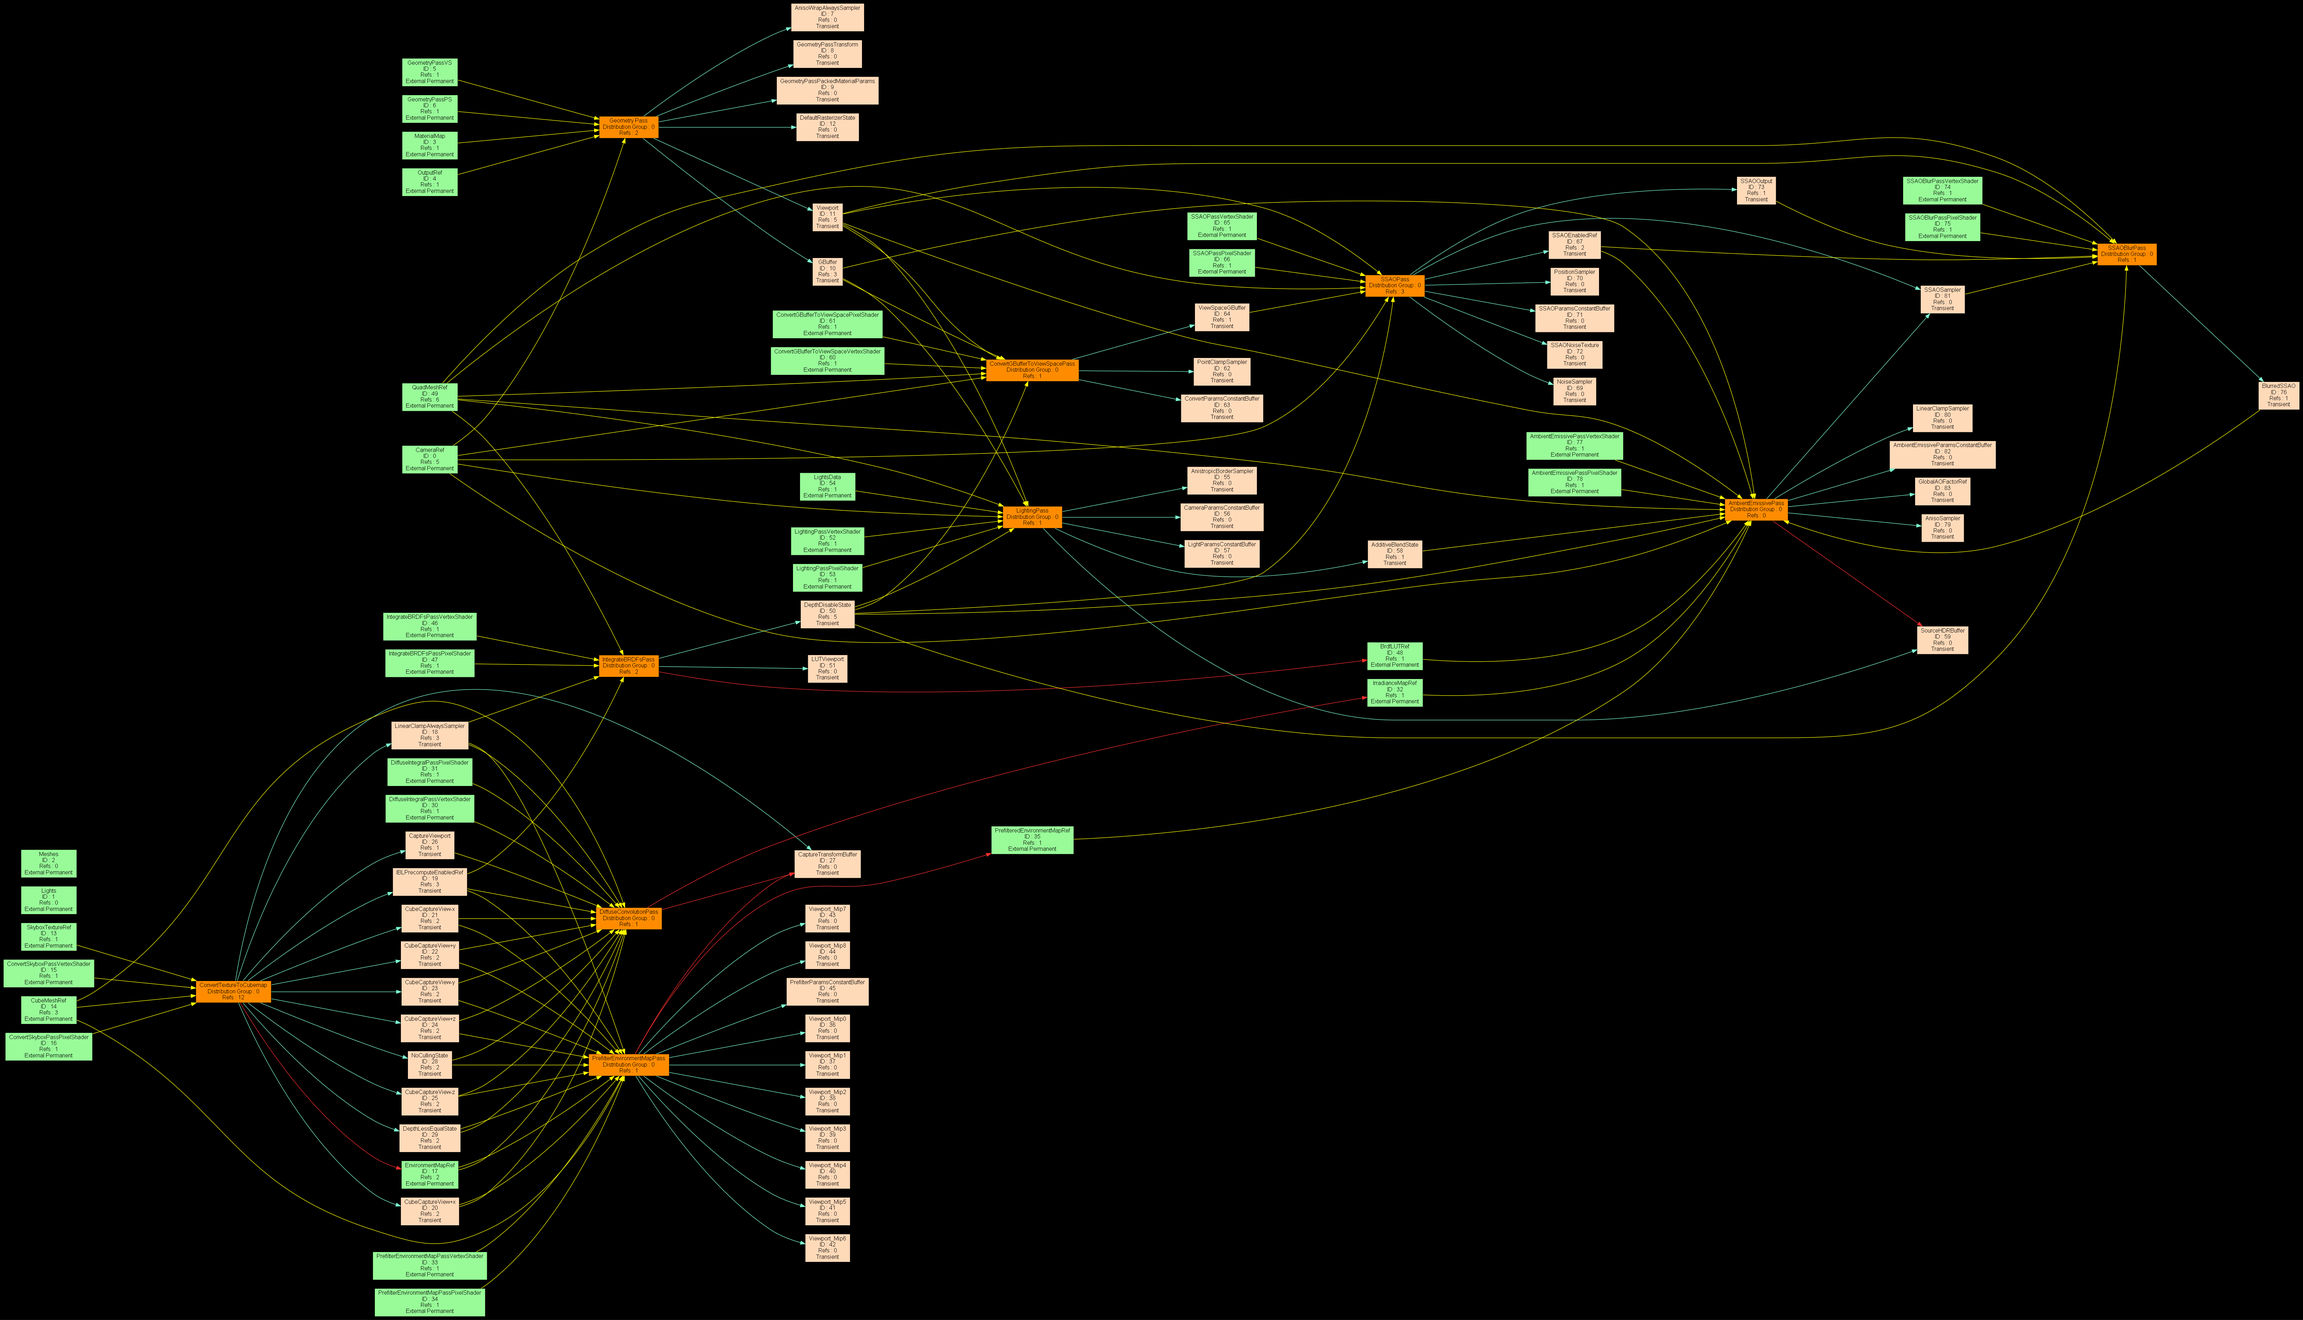
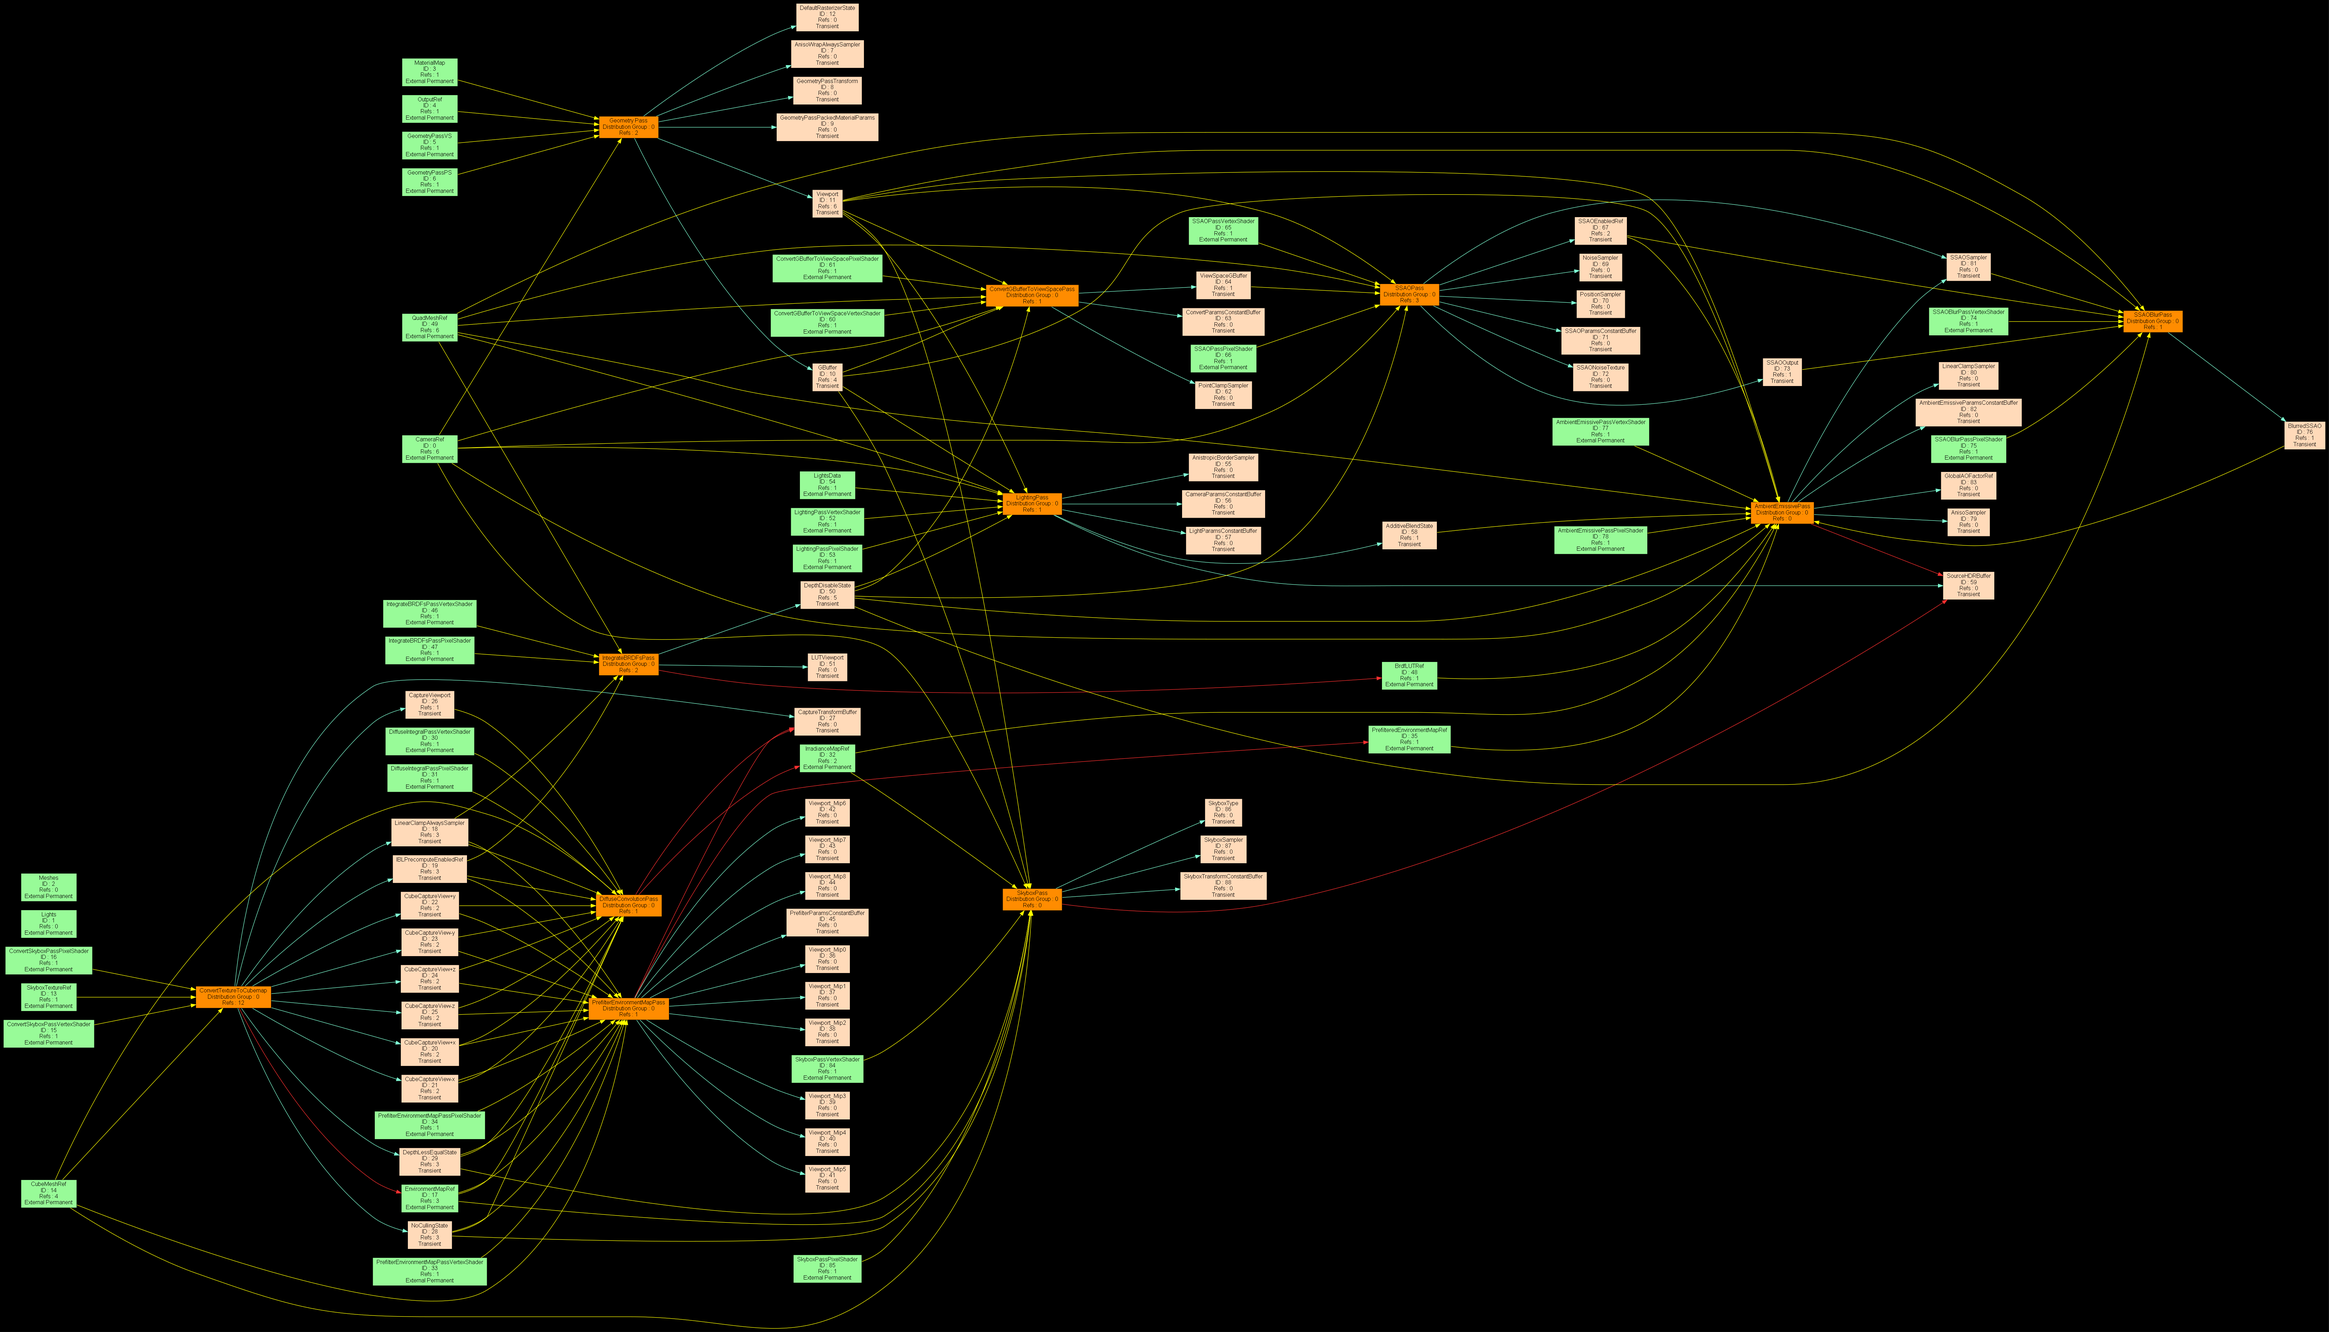
Skybox 렌더링 패스를 frame graph로 포팅하였습니다

diff --git a/Sources/Runtime/Rendering/RendererPBR.cpp b/Sources/Runtime/Rendering/RendererPBR.cpp
@@ -49,11 +49,6 @@ namespace Mile
       float SpecularFactor;
    };
 
-   DEFINE_CONSTANT_BUFFER(CubemapTransformBuffer)
-   {
-      Matrix ViewProj;
-   };
-
    DEFINE_CONSTANT_BUFFER(PrefilterParamsBuffer)
    {
       float Roughness;
@@ -72,9 +67,9 @@ namespace Mile
       UINT32 LightType;
    };
 
-   DEFINE_CONSTANT_BUFFER(ConvertParams)
+   DEFINE_CONSTANT_BUFFER(OneMatrixConstantBuffer)
    {
-      Matrix View;
+      Matrix Mat;
    };
 
    DEFINE_CONSTANT_BUFFER(SSAOParamsConstantBuffer)
@@ -128,12 +123,17 @@ namespace Mile
       m_bSSAOEnabled(true),
       m_ambientEmissivePassVS(nullptr),
       m_ambientEmissivePassPS(nullptr),
-      m_globalAOFactor(1.0f)
+      m_globalAOFactor(1.0f),
+      m_skyboxPassVS(nullptr),
+      m_skyboxPassPS(nullptr),
+      m_renderSkyboxType(ESkyboxType::EnvironmentMap)
    {
    }
 
    RendererPBR::~RendererPBR()
    {
+      SafeDelete(m_skyboxPassPS);
+      SafeDelete(m_skyboxPassVS);
       SafeDelete(m_ambientEmissivePassPS);
       SafeDelete(m_ambientEmissivePassVS);
       SafeDelete(m_ssaoBlurPassPS);
@@ -364,6 +364,24 @@ namespace Mile
       if (m_ambientEmissivePassPS == nullptr)
       {
          ME_LOG(MileRendererPBR, Fatal, TEXT("Failed to load ambient emissive pass pixel shader!"));
+         return false;
+      }
+
+      /** Skybox Pass Shaders  */
+      ShaderDescriptor skyboxPassDesc;
+      skyboxPassDesc.Renderer = this;
+      skyboxPassDesc.FilePath = TEXT("Contents/Shaders/SkyboxPass.hlsl");
+      m_skyboxPassVS = Elaina::Realize<ShaderDescriptor, VertexShaderDX11>(skyboxPassDesc);
+      if (m_ambientEmissivePassVS == nullptr)
+      {
+         ME_LOG(MileRendererPBR, Fatal, TEXT("Failed to load skybox pass vertex shader!"));
+         return false;
+      }
+
+      m_skyboxPassPS = Elaina::Realize<ShaderDescriptor, PixelShaderDX11>(skyboxPassDesc);
+      if (m_ambientEmissivePassPS == nullptr)
+      {
+         ME_LOG(MileRendererPBR, Fatal, TEXT("Failed to load skybox pass pixel shader!"));
          return false;
       }
 
@@ -656,7 +674,7 @@ namespace Mile
 
             ConstantBufferDescriptor captureTransformDesc;
             captureTransformDesc.Renderer = this;
-            captureTransformDesc.Size = sizeof(CubemapTransformBuffer);
+            captureTransformDesc.Size = sizeof(OneMatrixConstantBuffer);
             data.CaptureTransformBuffer = builder.Create<ConstantBufferResource>("CaptureTransformBuffer", captureTransformDesc);
 
             RasterizerStateDescriptor noCullingDesc;
@@ -718,8 +736,8 @@ namespace Mile
                for (unsigned int faceIdx = 0; faceIdx < CUBE_FACES; ++faceIdx)
                {
                   outputEnvMap->BindAsRenderTarget(immediateContext, faceIdx);
-                  auto mappedTrasnformBuffer = transformBuffer->Map<CubemapTransformBuffer>(immediateContext);
-                  (*mappedTrasnformBuffer) = CubemapTransformBuffer{ *captureViews[faceIdx]->GetActual() };
+                  auto mappedTrasnformBuffer = transformBuffer->Map<OneMatrixConstantBuffer>(immediateContext);
+                  (*mappedTrasnformBuffer) = OneMatrixConstantBuffer{ *captureViews[faceIdx]->GetActual() };
                   transformBuffer->UnMap(immediateContext);
                   immediateContext.DrawIndexed(cubeMesh->GetIndexCount(), 0, 0);
                   outputEnvMap->UnbindAsRenderTarget(immediateContext);
@@ -840,8 +858,8 @@ namespace Mile
                for (unsigned int faceIdx = 0; faceIdx < CUBE_FACES; ++faceIdx)
                {
                   outputIrradianceMap->BindAsRenderTarget(immediateContext, faceIdx);
-                  auto mappedTrasnformBuffer = transformBuffer->Map<CubemapTransformBuffer>(immediateContext);
-                  (*mappedTrasnformBuffer) = CubemapTransformBuffer{ *data.CaptureViews[faceIdx]->GetActual() };
+                  auto mappedTrasnformBuffer = transformBuffer->Map<OneMatrixConstantBuffer>(immediateContext);
+                  (*mappedTrasnformBuffer) = OneMatrixConstantBuffer{ *data.CaptureViews[faceIdx]->GetActual() };
                   transformBuffer->UnMap(immediateContext);
                   immediateContext.DrawIndexed(cubeMesh->GetIndexCount(), 0, 0);
                   outputIrradianceMap->UnbindAsRenderTarget(immediateContext);
@@ -985,8 +1003,8 @@ namespace Mile
 
                   for (unsigned int faceIdx = 0; faceIdx < CUBE_FACES; ++faceIdx)
                   {
-                     auto mappedTrasnformBuffer = transformBuffer->Map<CubemapTransformBuffer>(immediateContext);
-                     (*mappedTrasnformBuffer) = CubemapTransformBuffer{ *data.CaptureViews[faceIdx]->GetActual() };
+                     auto mappedTrasnformBuffer = transformBuffer->Map<OneMatrixConstantBuffer>(immediateContext);
+                     (*mappedTrasnformBuffer) = OneMatrixConstantBuffer{ *data.CaptureViews[faceIdx]->GetActual() };
                      transformBuffer->UnMap(immediateContext);
 
                      outputPrefilteredEnvMap->BindAsRenderTarget(immediateContext, faceIdx, mipLevel);
@@ -1324,7 +1342,7 @@ namespace Mile
 
             ConstantBufferDescriptor paramsDesc;
             paramsDesc.Renderer = this;
-            paramsDesc.Size = sizeof(ConvertParams);
+            paramsDesc.Size = sizeof(OneMatrixConstantBuffer);
             data.ConvertParamsBuffer = builder.Create<ConstantBufferResource>(
                "ConvertParamsConstantBuffer",
                paramsDesc);
@@ -1376,8 +1394,8 @@ namespace Mile
                camTransform->GetForward(TransformSpace::World),
                camTransform->GetUp(TransformSpace::World));
 
-            auto mappedConvertParams = convertParamsBuffer->Map<ConvertParams>(immediateContext);
-            (*mappedConvertParams) = ConvertParams{ viewMatrix };
+            auto mappedConvertParams = convertParamsBuffer->Map<OneMatrixConstantBuffer>(immediateContext);
+            (*mappedConvertParams) = OneMatrixConstantBuffer{ viewMatrix };
             convertParamsBuffer->UnMap(immediateContext);
             immediateContext.DrawIndexed(quadMesh->GetIndexCount(), 0, 0);
 
@@ -1770,7 +1788,7 @@ namespace Mile
                blurredSSAO->BindAsShaderResource(context, 8, EShaderType::PixelShader);
             }
             quadMesh->Bind(context, 0);
-            output->BindAsRenderTarget(context);
+            output->BindAsRenderTarget(context, false, false);
 
             /** Update Constant Buffer */
             auto camTransform = camera->GetTransform();
@@ -1799,6 +1817,144 @@ namespace Mile
          });
 
       ambientEmissivePass->SetCullImmune(true);
+      auto ambientEmissivePassData = ambientEmissivePass->GetData();
+
+      struct SkyboxPassData : public RenderPassDataBase
+      {
+         ViewportResource* Viewport = nullptr;
+         CameraRefResource* CamRef = nullptr;
+         GBufferResource* GBuffer = nullptr;
+         VoidRefRefResource* SkyboxType = nullptr;
+         DynamicCubemapRefResource* EnvironmentMapRef = nullptr;
+         DynamicCubemapRefResource* IrradianceMapRef = nullptr;
+         SamplerResource* Sampler = nullptr;
+         MeshRefResource* CubeMeshRef = nullptr;
+         DepthStencilStateResource* DepthLessEqualState = nullptr;
+         RasterizerStateResource* NoCullingState = nullptr;
+         ConstantBufferResource* TransformConstantBuffer = nullptr;
+         RenderTargetResource* Output = nullptr;
+      };
+
+      auto skyboxPassVSRes =
+         m_frameGraph.AddExternalPermanentResource("SkyboxPassVertexShader", ShaderDescriptor(), m_skyboxPassVS);
+      auto skyboxPassPSRes =
+         m_frameGraph.AddExternalPermanentResource("SkyboxPassPixelShader", ShaderDescriptor(), m_skyboxPassPS);
+
+      auto skyboxPass = m_frameGraph.AddCallbackPass<SkyboxPassData>(
+         "SkyboxPass",
+         [&](Elaina::RenderPassBuilder& builder, SkyboxPassData& data)
+         {
+            data.Renderer = this;
+            data.VertexShader = builder.Read(skyboxPassVSRes);
+            data.PixelShader = builder.Read(skyboxPassPSRes);
+
+            data.Viewport = builder.Read(ambientEmissivePassData.Viewport);
+
+            data.CamRef = builder.Read(ambientEmissivePassData.CamRef);
+            data.GBuffer = builder.Read(ambientEmissivePassData.GBuffer);
+
+            VoidRefDescriptor skyboxRefDesc;
+            skyboxRefDesc.Reference = (void*)&m_renderSkyboxType;
+            data.SkyboxType = builder.Create<VoidRefRefResource>("SkyboxType", skyboxRefDesc);
+
+            SamplerDescriptor samplerDesc;
+            samplerDesc.Renderer = this;
+            samplerDesc.Filter = D3D11_FILTER_MIN_MAG_MIP_LINEAR;
+            samplerDesc.AddressModeU = samplerDesc.AddressModeV = samplerDesc.AddressModeW = D3D11_TEXTURE_ADDRESS_WRAP;
+            samplerDesc.CompFunc = D3D11_COMPARISON_ALWAYS;
+            data.Sampler = builder.Create<SamplerResource>("SkyboxSampler", samplerDesc);
+
+            data.DepthLessEqualState = builder.Read(convertSkyboxToCubemapPassData.DepthLessEqualState);
+            data.NoCullingState = builder.Read(convertSkyboxToCubemapPassData.NoCullingState);
+
+            ConstantBufferDescriptor transformBufferDesc;
+            transformBufferDesc.Renderer = this;
+            transformBufferDesc.Size = sizeof(OneMatrixConstantBuffer);
+            data.TransformConstantBuffer = builder.Create<ConstantBufferResource>("SkyboxTransformConstantBuffer", transformBufferDesc);
+
+            data.EnvironmentMapRef = builder.Read(convertSkyboxToCubemapPassData.OutputEnvMapRef);
+            data.IrradianceMapRef = builder.Read(diffuseIntegralPassData.OutputIrradianceMapRef);
+
+            data.CubeMeshRef = builder.Read(convertSkyboxToCubemapPassData.CubeMeshRef);
+
+            data.Output = builder.Write(ambientEmissivePassData.Output);
+         },
+         [](const SkyboxPassData& data)
+         {
+            ID3D11DeviceContext& context = data.Renderer->GetImmediateContext();
+            context.ClearState();
+            context.IASetPrimitiveTopology(D3D11_PRIMITIVE_TOPOLOGY_TRIANGLELIST);
+
+            auto vertexShader = data.VertexShader->GetActual();
+            auto pixelShader = data.PixelShader->GetActual();
+            auto sampler = data.Sampler->GetActual();
+            auto viewport = data.Viewport->GetActual();
+            auto depthLessEqualState = data.DepthLessEqualState->GetActual();
+            auto noCullingState = data.NoCullingState->GetActual();
+            auto transformBuffer = data.TransformConstantBuffer->GetActual();
+            auto envMap = *data.EnvironmentMapRef->GetActual();
+            auto irrdianceMap = *data.IrradianceMapRef->GetActual();
+            auto cubeMesh = *data.CubeMeshRef->GetActual();
+            auto output = data.Output->GetActual();
+            auto gBuffer = data.GBuffer->GetActual();
+            auto skyboxType = *reinterpret_cast<ESkyboxType*>(*data.SkyboxType->GetActual());
+
+            /** Binds */
+            vertexShader->Bind(context);
+            pixelShader->Bind(context);
+            sampler->Bind(context, 0);
+            depthLessEqualState->Bind(context);
+            noCullingState->Bind(context);
+            transformBuffer->Bind(context, 0, EShaderType::VertexShader);
+            cubeMesh->Bind(context, 0);
+            viewport->Bind(context);
+            auto gBufferDepthStencil = gBuffer->GetDepthStencilBufferDX11();
+            output->SetDepthStencilBuffer(gBufferDepthStencil);
+            output->BindAsRenderTarget(context, false, false);
+
+            switch (skyboxType)
+            {
+            case ESkyboxType::IrradianceMap:
+               irrdianceMap->Bind(context, 0, EShaderType::PixelShader);
+               break;
+            case ESkyboxType::EnvironmentMap:
+            default:
+               envMap->Bind(context, 0, EShaderType::PixelShader);
+            }
+
+            /** Upload Constant Buffer datas */
+            auto camera = *data.CamRef->GetActual();
+            auto camTransform = camera->GetTransform();
+            Matrix viewMat = Matrix::CreateView(Vector3(0.0f, 0.0f, 0.0f), camTransform->GetForward(TransformSpace::World), camTransform->GetUp(TransformSpace::World));
+            Matrix projMat = Matrix::CreatePerspectiveProj(camera->GetFov(), output->GetAspectRatio(), 0.1f, 1000.0f);
+            auto mappedTransformBuffer = transformBuffer->Map<OneMatrixConstantBuffer>(context);
+            (*mappedTransformBuffer) = OneMatrixConstantBuffer{ viewMat * projMat };
+            transformBuffer->UnMap(context);
+
+            /** Render */
+            context.DrawIndexed(cubeMesh->GetIndexCount(), 0, 0);
+
+            /** Unbinds */
+            switch (skyboxType)
+            {
+            case ESkyboxType::IrradianceMap:
+               irrdianceMap->Unbind(context);
+               break;
+            case ESkyboxType::EnvironmentMap:
+            default:
+               envMap->Unbind(context);
+               break;
+            }
+
+            output->UnbindRenderTarget(context);
+            output->SetDepthStencilBuffer(nullptr);
+            transformBuffer->Unbind(context);
+            sampler->Unbind(context);
+            pixelShader->Unbind(context);
+            vertexShader->Unbind(context);
+         });
+
+      skyboxPass->SetCullImmune(true);
       m_frameGraph.Compile();
 
       Elaina::VisualizeParams visualizeParams;

diff --git a/Sources/Runtime/Rendering/RendererPBR.h b/Sources/Runtime/Rendering/RendererPBR.h
@@ -35,6 +35,12 @@ namespace Mile
       float Magnitude = 1.1f;
    };
 
+   enum class MEAPI ESkyboxType
+   {
+      EnvironmentMap,
+      IrradianceMap,
+   };
+
    class MEAPI RendererPBR : public RendererDX11
    {
    public:
@@ -96,6 +102,9 @@ namespace Mile
       VertexShaderDX11* m_ambientEmissivePassVS;
       PixelShaderDX11* m_ambientEmissivePassPS;
 
+      VertexShaderDX11* m_skyboxPassVS;
+      PixelShaderDX11* m_skyboxPassPS;
+
       /** External Resources; Don't delete in renderer! */
       /** Per Frame Datas */
       std::vector<CameraComponent*> m_cameras;
@@ -120,6 +129,8 @@ namespace Mile
       SSAOParams m_ssaoParams;
 
       float m_globalAOFactor;
+
+      ESkyboxType m_renderSkyboxType;
 
    };
 }

diff --git a/Sources/Runtime/Rendering/RenderTargetDX11.h b/Sources/Runtime/Rendering/RenderTargetDX11.h
@@ -21,6 +21,7 @@ namespace Mile
 
       unsigned int GetWidth() const { return m_width; }
       unsigned int GetHeight() const { return m_height; }
+      float GetAspectRatio() const { return (m_width / (float)m_height); }
       EColorFormat GetFormat() const { return m_format; }
       Texture2dDX11* GetTexture() const { return m_texture; }
       ID3D11RenderTargetView* GetRTV() const { return m_rtv; }

diff --git a/Sources/Runtime/Rendering/FrameResources.h b/Sources/Runtime/Rendering/FrameResources.h
@@ -248,4 +248,11 @@ namespace Mile
       Texture2dDX11Ref Reference;
    };
    using Texture2dDX11RefResource = Elaina::FrameResource<Texture2dDX11RefDescriptor, Texture2dDX11Ref>;
+
+   using VoidRef = void*;
+   struct VoidRefDescriptor
+   {
+      VoidRef Reference = nullptr;
+   };
+   using VoidRefRefResource = Elaina::FrameResource<VoidRefDescriptor, VoidRef>;
 }

diff --git a/Sources/Runtime/Rendering/FrameResourceRealizeImpl.hpp b/Sources/Runtime/Rendering/FrameResourceRealizeImpl.hpp
@@ -399,4 +399,10 @@ namespace Elaina
    {
       return new Texture2dDX11Ref(desc.Reference);
    }
+
+   template<>
+   VoidRef* Realize(const VoidRefDescriptor& desc)
+   {
+      return new VoidRef(desc.Reference);
+   }
 }
